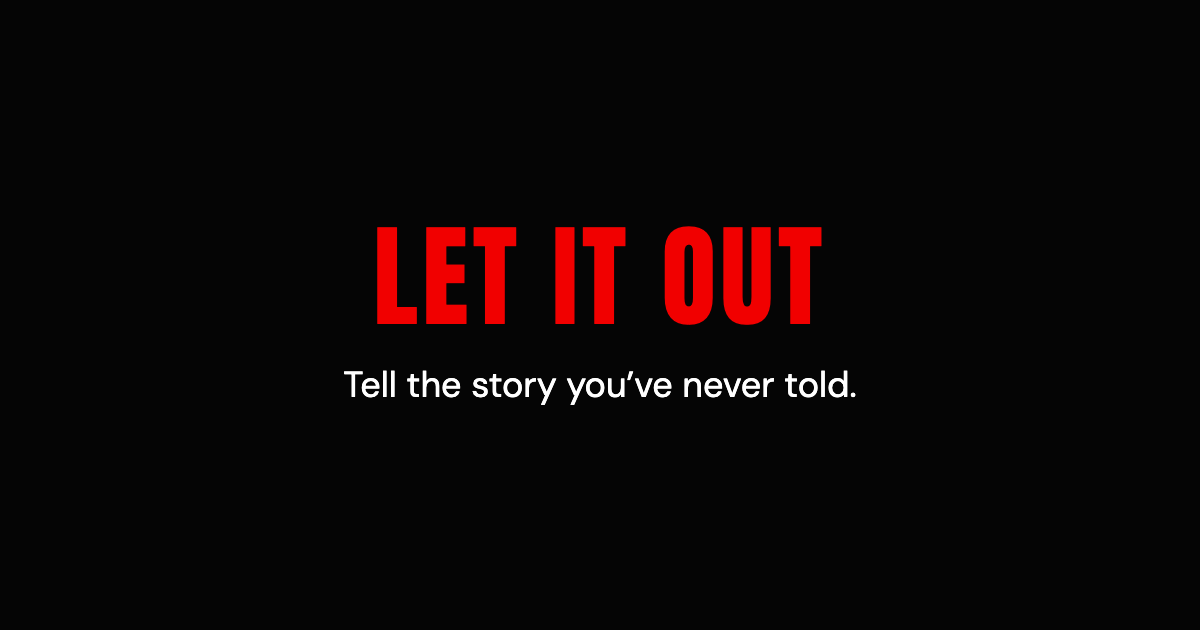
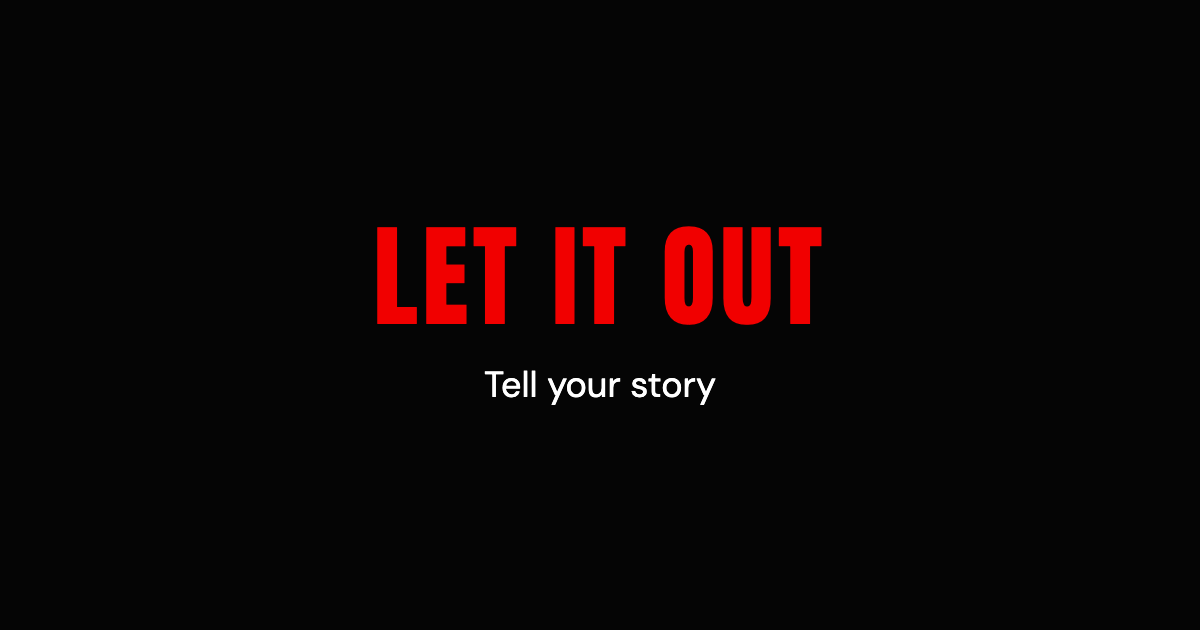
Jul 1 filter keywords added, ready to deploy
Includes June 30: changed Let It Out title prompt updates.

Changed region(s): [[0.2775, 0.573, 0.7092, 0.6333]]

diff --git a/letitout.html b/letitout.html
@@ -16,26 +16,26 @@
 
     gtag('config', 'G-ZEZQRBTLR7');
     </script>
-    <title>Let It Out — Tell the story you&rsquo;ve never told | Pattern Reset™</title>
+    <title>Let It Out — Tell the story you&rsquo;ve been carrying</title>
     <meta name="description" content="Anonymous. Honest. Unfiltered. Write on the public wall—no name, no account. Read others&rsquo; stories so you know you&rsquo;re not alone.">
     
     <!-- Open Graph Meta Tags -->
-    <meta property="og:title" content="Let It Out — Tell the story you&rsquo;ve never told | Pattern Reset™">
+    <meta property="og:title" content="Let It Out — Tell the story you&rsquo;ve been carrying">
     <meta property="og:description" content="Anonymous. Honest. Unfiltered. Write on the public wall—no name, no account. Read others&rsquo; stories.">
     <meta property="og:type" content="website">
     <meta property="og:url" content="https://mypatternreset.com/letitout">
     <meta property="og:image" content="https://mypatternreset.com/images/let-it-out-og.png">
-    <meta property="og:image:alt" content="Let It Out — Tell the story you&rsquo;ve never told.">
+    <meta property="og:image:alt" content="Let It Out — Tell your story.">
     
     <!-- Canonical URL -->
     <link rel="canonical" href="https://mypatternreset.com/letitout">
     
     <!-- Twitter Cards -->
     <meta name="twitter:card" content="summary_large_image">
-    <meta name="twitter:title" content="Let It Out — Tell the story you&rsquo;ve never told | Pattern Reset™">
+    <meta name="twitter:title" content="Let It Out — Tell the story you&rsquo;ve been carrying">
     <meta name="twitter:description" content="Anonymous. Honest. Unfiltered. Write on the public wall—no name, no account. Read others&rsquo; stories.">
     <meta name="twitter:image" content="https://mypatternreset.com/images/let-it-out-og.png">
-    <meta name="twitter:image:alt" content="Let It Out — Tell the story you&rsquo;ve never told.">
+    <meta name="twitter:image:alt" content="Let It Out — Tell your story.">
     
     <!-- Structured Data (JSON-LD) -->
     <script type="application/ld+json">
@@ -43,7 +43,7 @@
       "@context": "https://schema.org",
       "@type": "WebApplication",
       "name": "Let It Out",
-      "description": "Tell the story you've never told. Anonymous. Honest. Unfiltered. Write on the public wall with no name or account, and read others' stories. Part of Pattern Reset™.",
+      "description": "Tell the story you've been carrying. Anonymous. Honest. Unfiltered. Write on the public wall with no name or account, and read others' stories.",
       "url": "https://mypatternreset.com/letitout",
       "applicationCategory": "SocialNetworkingApplication",
       "operatingSystem": "Web Browser",
@@ -62,13 +62,13 @@
         "Honest, unfiltered release"
       ],
       "keywords": [
-        "tell the story you've never told",
+        "tell the story you've been carrying",
         "anonymous honest unfiltered",
         "anonymous journal",
         "write what you never said",
         "share your truth anonymously",
         "public wall anonymous stories",
-        "let it out pattern reset",
+        "let it out anonymous wall",
         "not the only one"
       ]
     }
@@ -99,9 +99,9 @@
     <!-- Styles -->
     <link rel="stylesheet" href="style.css?v=16">
     <link rel="stylesheet" href="styles/letitout-theme.css?v=6">
-    <link rel="stylesheet" href="styles/letitout.css?v=86">
+    <link rel="stylesheet" href="styles/letitout.css?v=89">
     <link rel="stylesheet" href="styles/letitout-mobile.css?v=2">
-    <link rel="stylesheet" href="styles/letitout-dark.css?v=54">
+    <link rel="stylesheet" href="styles/letitout-dark.css?v=58">
     <link rel="stylesheet" href="styles/letitout-location-fix.css?v=9">
     <link rel="stylesheet" href="styles/letitout-button-fix.css?v=1">
     <style>
@@ -332,7 +332,7 @@
                         No need to get it perfect.
                     </p>
                     <p class="letitout-about-copy letitout-about-copy--brand">Just tell us what happened.</p>
-                    <p class="letitout-about-copy letitout-about-copy--footnote">Some stories may be shared anonymously through Pattern Reset to help others feel less alone.</p>
+                    <p class="letitout-about-copy letitout-about-copy--footnote">Some stories may be shared anonymously to help others feel less alone.</p>
                 </div>
                 <button type="button" class="letitout-about-dismiss">Got it</button>
             </div>
@@ -382,9 +382,9 @@
     <script src="js/components/post-card.js?v=14"></script>
     <script src="js/premium-packs.js?v=1"></script>
     <script src="js/letitout-emotions.js?v=4"></script>
-    <script src="js/letitout-situations.js?v=7"></script>
+    <script src="js/letitout-situations.js?v=8"></script>
     <script src="js/postForm.js?v=61"></script>
-    <script src="js/wallFeed.js?v=52"></script>
+    <script src="js/wallFeed.js?v=55"></script>
     
     <!-- Test Script -->
     <!-- <script src="js/test-setup.js"></script> -->

diff --git a/js/wallFeed.js b/js/wallFeed.js
@@ -597,7 +597,45 @@ class WallFeed {
                 .map((e) => e.trim())
                 .includes(t.label);
         }
-        return post.situation === t.label;
+        return post.situation === t.label
+            || (typeof situationTagMatches === 'function' && situationTagMatches(post.situation, t.label));
+    }
+
+    _wallTagCountKey(tag) {
+        return `${tag.type}:${tag.label}`;
+    }
+
+    /** Story counts per tag from loaded wall posts (catalog snapshot, not filtered subset). */
+    buildWallTagCounts(posts = this.posts) {
+        const counts = new Map();
+        const bump = (tag) => {
+            const key = this._wallTagCountKey(tag);
+            counts.set(key, (counts.get(key) || 0) + 1);
+        };
+
+        for (const post of posts) {
+            if (post.emotion) {
+                const seen = new Set();
+                post.emotion
+                    .split(',')
+                    .map((e) => e.trim())
+                    .filter(Boolean)
+                    .forEach((label) => {
+                        if (seen.has(label)) return;
+                        seen.add(label);
+                        bump({ type: 'emotion', label });
+                    });
+            }
+            if (typeof post.situation === 'string' && post.situation.trim()) {
+                const canonical =
+                    typeof canonicalLetItOutSituation === 'function'
+                        ? canonicalLetItOutSituation(post.situation.trim())
+                        : post.situation.trim();
+                bump({ type: 'situation', label: canonical });
+            }
+        }
+
+        return counts;
     }
 
     applyWallTagFilter(posts) {
@@ -931,8 +969,8 @@ class WallFeed {
         }
         return [
             'Relationships', 'Dating', 'Breakup', 'Marriage', 'Divorce', 'Infidelity', 'Friendship', 'Family',
-            'Parenthood', 'Childhood', 'School', 'Identity', 'Sexuality', 'Self-Worth', 'Purpose', 'Career', 'Money',
-            'Success', 'Failure', 'Addiction', 'Mental Health', 'Health', 'Trauma', 'Grief & Loss', 'Regret',
+            'Parenthood', 'Childhood', 'School', 'Identity', 'Sexuality', 'Self-Worth', 'Purpose', 'Work', 'Burnout', 'Money',
+            'Success', 'Failure', 'Addiction', 'Mental Health', 'Illness & Health', 'Trauma', 'Grief & Loss', 'Regret',
             'Starting Over', 'Life Change', 'Faith & Spirituality', 'Abuse', 'Secret', 'Confession', 'Other'
         ];
     }
@@ -978,6 +1016,8 @@ class WallFeed {
         unifiedWrap.appendChild(searchInput);
         unifiedWrap.appendChild(categoriesContainer);
 
+        const tagCounts = this.buildWallTagCounts(this.posts);
+
         const renderUnified = (filter = '') => {
             categoriesContainer.innerHTML = '';
             const filterVal = filter.trim().toLowerCase();
@@ -998,6 +1038,19 @@ class WallFeed {
                 labelSpan.className = 'emotion-subtag-label';
                 labelSpan.textContent = tag.label;
                 btn.appendChild(labelSpan);
+
+                const count = tagCounts.get(this._wallTagCountKey(tag)) || 0;
+                if (count > 0) {
+                    const countSpan = document.createElement('span');
+                    countSpan.className = 'emotion-subtag-count';
+                    countSpan.textContent = String(count);
+                    countSpan.setAttribute('aria-hidden', 'true');
+                    btn.appendChild(countSpan);
+                    const storyWord = count === 1 ? 'story' : 'stories';
+                    btn.setAttribute('aria-label', `${tag.label}, ${count} ${storyWord}`);
+                } else {
+                    btn.setAttribute('aria-label', tag.label);
+                }
 
                 if (this.isWallTagSelected(tag)) {
                     btn.classList.add('selected');
@@ -1633,7 +1686,7 @@ class WallFeed {
             : baseUrl;
         return {
             text:
-                'Let It Out \u2014 Tell the story you\u2019ve never told.\n' +
+                'Let It Out \u2014 Tell the story you\u2019ve been carrying.\n' +
                 'Read this on the wall:\n' +
                 wallUrl,
         };
@@ -1946,6 +1999,7 @@ WallFeed.UNIFIED_FILTER_LABEL_ORDER = [
     'Family',
     'Overwhelmed',
     'Exhausted',
+    'Burnout',
     'Numb',
     'Friendship',
     'Rejected',
@@ -1955,10 +2009,10 @@ WallFeed.UNIFIED_FILTER_LABEL_ORDER = [
     'Ashamed',
     'Embarrassed',
     'Mental Health',
-    'Health',
+    'Illness & Health',
     'Trauma',
     'Lost',
-    'Career',
+    'Work',
     'Angry',
     'Frustrated',
     'Disappointed',

diff --git a/styles/letitout.css b/styles/letitout.css
@@ -2073,18 +2073,23 @@ header .container {
     gap: 8px;
 }
 
-/* Post card - situation tag: same pill as feelings */
+/* Post card - situation: slightly stronger neutral chip (topic); feelings stay lighter grey */
+.post-card .post-emotion-tags .situation-tag.situation-tag-small,
+.letitout-my-posts-modal .post-emotion-tags .situation-tag.situation-tag-small,
+.my-post-card .post-emotion-tags .situation-tag.situation-tag-small,
+.original-post-card .post-emotion-tags .situation-tag.situation-tag-small,
 .post-emotion-tags .situation-tag.situation-tag-small {
     font-size: 12px;
     padding: 2px 10px;
     border-radius: 999px;
     font-family: 'DM Sans', sans-serif;
-    font-weight: 500;
+    font-weight: 600;
+    letter-spacing: 0.015em;
     display: inline-flex;
     align-items: center;
-    background: var(--letitout-pill-tag-bg, #e8e8e8);
+    background: var(--letitout-pill-tag-selected-bg, #d2d2d2);
     color: var(--letitout-pill-tag-text, #141414);
-    border: 1px solid var(--letitout-pill-tag-border, #cfcfcf);
+    border: 1px solid var(--letitout-pill-tag-selected-border, #9a9a9a);
     box-shadow: none;
 }
 
@@ -3978,6 +3983,24 @@ button.emotion-subtag.wall-unified-filter-tag--max:not(.selected):hover {
 .wall-filter-modal .emotion-subtag.selected .emotion-subtag-count {
     color: rgba(255, 255, 255, 0.92);
     opacity: 1;
+}
+
+.wall-filter-modal .emotion-subtag.wall-unified-filter-tag {
+    display: inline-flex;
+    align-items: center;
+    gap: 0.35em;
+}
+
+.wall-filter-modal .emotion-subtag-count {
+    font-variant-numeric: tabular-nums;
+    font-size: 0.82em;
+    font-weight: 500;
+    opacity: 0.62;
+    line-height: 1;
+}
+
+.wall-filter-modal .emotion-subtag.selected .emotion-subtag-count {
+    opacity: 0.92;
 }
 
 .wall-filter-modal .emotion-subtag:hover:not(.selected):not(.wall-unified-filter-tag--max) {

diff --git a/js/letitout-situations.js b/js/letitout-situations.js
@@ -19,13 +19,14 @@
         'Sexuality',
         'Self-Worth',
         'Purpose',
-        'Career',
+        'Work',
+        'Burnout',
         'Money',
         'Success',
         'Failure',
         'Addiction',
         'Mental Health',
-        'Health',
+        'Illness & Health',
         'Trauma',
         'Grief & Loss',
         'Regret',
@@ -37,4 +38,24 @@
         'Confession',
         'Other'
     ];
+
+    /** Older posts may still use pre-rename situation values. */
+    g.LET_IT_OUT_SITUATION_LEGACY_TO_CANONICAL = {
+        Career: 'Work',
+        Health: 'Illness & Health',
+    };
+
+    g.canonicalLetItOutSituation = function canonicalLetItOutSituation(label) {
+        if (!label || typeof label !== 'string') return label;
+        const trimmed = label.trim();
+        return g.LET_IT_OUT_SITUATION_LEGACY_TO_CANONICAL[trimmed] || trimmed;
+    };
+
+    g.situationTagMatches = function situationTagMatches(storedSituation, filterLabel) {
+        if (!storedSituation || !filterLabel) return false;
+        const stored = String(storedSituation).trim();
+        const filter = String(filterLabel).trim();
+        if (stored === filter) return true;
+        return g.canonicalLetItOutSituation(stored) === filter;
+    };
 })(typeof globalThis !== 'undefined' ? globalThis : window);

diff --git a/styles/letitout-dark.css b/styles/letitout-dark.css
@@ -785,6 +785,10 @@ DARK MODE - FIXES & ADDITIONS
     opacity: 1;
 }
 
+.dark-mode .wall-filter-modal .emotion-subtag:not(.selected) .emotion-subtag-count {
+    color: #9a9a9a;
+}
+
 .dark-mode .wall-filter-modal button.emotion-subtag.wall-unified-filter-tag--max:not(.selected) {
     background-color: #222222 !important;
     color: #6a6a6a !important;
@@ -939,11 +943,17 @@ DARK MODE - FIXES & ADDITIONS
 .dark-mode .filter-situation-section {
     border-top-color: #333;
 }
-/* Post card - situation pill: outline style, matches emotion height, distinct but cohesive */
+/* Post card - situation: slightly stronger neutral chip (topic) */
+.dark-mode .post-card .post-emotion-tags .situation-tag.situation-tag-small,
+.dark-mode .letitout-my-posts-modal .post-emotion-tags .situation-tag.situation-tag-small,
+.dark-mode .my-post-card .post-emotion-tags .situation-tag.situation-tag-small,
+.dark-mode .original-post-card .post-emotion-tags .situation-tag.situation-tag-small,
 .dark-mode .post-emotion-tags .situation-tag.situation-tag-small {
-    background: #2a2a2a;
-    border-color: #444;
+    background: #383838;
+    border-color: #5a5a5a;
     color: #f0f0f0;
+    font-weight: 600;
+    letter-spacing: 0.015em;
 }
 
 .dark-mode .letitout-emotion-modal-btn.cancel,

diff --git a/js/postForm.js b/js/postForm.js
@@ -167,8 +167,8 @@ class PostForm {
                 ? [...LET_IT_OUT_SITUATION_TAGS]
                 : [
                       'Relationships', 'Dating', 'Breakup', 'Marriage', 'Divorce', 'Infidelity', 'Friendship', 'Family',
-                      'Parenthood', 'Childhood', 'School', 'Identity', 'Sexuality', 'Self-Worth', 'Purpose', 'Career', 'Money',
-                      'Success', 'Failure', 'Addiction', 'Mental Health', 'Health', 'Trauma', 'Grief & Loss', 'Regret',
+                      'Parenthood', 'Childhood', 'School', 'Identity', 'Sexuality', 'Self-Worth', 'Purpose', 'Work', 'Burnout', 'Money',
+                      'Success', 'Failure', 'Addiction', 'Mental Health', 'Illness & Health', 'Trauma', 'Grief & Loss', 'Regret',
                       'Starting Over', 'Life Change', 'Faith & Spirituality', 'Abuse', 'Secret', 'Confession', 'Other'
                   ];
         this._submitAttemptedWithoutSituation = false;

diff --git a/liamsaysit.html b/liamsaysit.html
@@ -39,7 +39,7 @@
     <div class="bio-hub__actions">
       <article class="bio-hub__offer-card">
         <h3 class="bio-hub__offer-title">Let it out</h3>
-        <p class="bio-hub__offer-desc">Tell the story you&rsquo;ve never told.<br />Anonymous. Honest. Unfiltered.</p>
+        <p class="bio-hub__offer-desc">Tell the story you&rsquo;ve been carrying.<br />Anonymous. Honest. Unfiltered.</p>
         <a class="bio-hub__offer-cta bio-hub__offer-cta--light" href="letitout.html">Share your story</a>
       </article>
 

diff --git a/scripts/let-it-out-og-image.html b/scripts/let-it-out-og-image.html
@@ -39,6 +39,6 @@
 </head>
 <body>
   <div class="brand-text">Let It Out</div>
-  <div class="headline-text">Tell the story you&rsquo;ve never told.</div>
+  <div class="headline-text">Tell your story</div>
 </body>
 </html>
